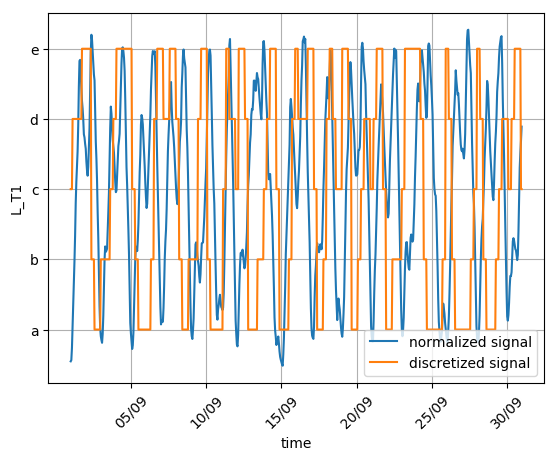
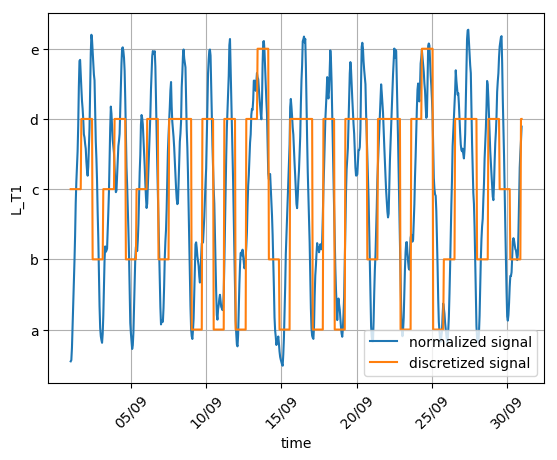
Discretization done!!!

Changed region(s): [[0.1221, 0.0913, 0.9461, 0.7304]]

diff --git a/anomaly_detection/discretization.py b/anomaly_detection/discretization.py
@@ -2,9 +2,7 @@ import pandas as pd
 import matplotlib.pyplot as plt
 import matplotlib.dates as mdates
 import numpy as np
-from saxpy.sax import sax_by_chunking
 from saxpy.znorm import znorm
-from math import ceil
 from nltk import ngrams
 from anomaly_detection import sax
 import warnings
@@ -51,13 +49,16 @@ def confusion_results(predicted, true):
     return TP, FP, TN, FN
 
 
-def uncompress_labels(compressed_data, n, w):
-    j = 0
-    step = ceil(n/w)
+def uncompress_labels(compressed_data, indices):
     uncompressed = []
     for i in range(len(compressed_data)):
-        uncompressed += [compressed_data[i]] * min(step, n - j)
-        j += step
+        if i < len(compressed_data)-1:
+            if indices[i][1] != indices[i+1][0]:
+                if compressed_data[i] > compressed_data[i+1]:
+                    indices[i + 1][0] += 1
+                else:
+                    indices[i][1] -= 1
+        uncompressed += [compressed_data[i]] * (indices[i][1]-indices[i][0])
     return uncompressed
 
 
@@ -66,15 +67,16 @@ def discretize_data(data, w, features, start_date, end_date, dataset, plotting):
     symbol_to_number = {'a': -1.5, 'b': -0.75, 'c': 0, 'd': 0.75, 'e': 1.5}
     number_to_symbol = {'0': 'a', '1': 'b', '2': 'c', '3': 'd', '4': 'e'}
     sax_seqs = {}
+    sax_indices = {}
     for feature in features:
         print('------------------------------------- Discretizing %s -------------------------------------' % feature)
         # sax_str = sax_by_chunking(np.array(data[feature]), w, alphabet)
-        sax_str, _ = sax.to_letter_rep(np.array(data[feature]), w, alphabet)
+        sax_str, real_indices = sax.to_letter_rep(np.array(data[feature]), w, alphabet)
         sax_seqs[feature] = sax_str
-
+        sax_indices[feature] = real_indices
         if plotting:
             normalized_signal = znorm(np.array(data[feature]))
-            discrete = uncompress_labels(sax_str, len(normalized_signal), w)
+            discrete = uncompress_labels(sax_str, real_indices)
             discrete = [symbol_to_number[number_to_symbol[d]] for d in discrete]
 
             fig = plt.figure()
@@ -91,7 +93,7 @@ def discretize_data(data, w, features, start_date, end_date, dataset, plotting):
             plt.grid()
             plt.legend(loc='lower right')
             plt.savefig('plots/sax/%s_discretization_%s.png' % (dataset, feature), bbox_inches='tight')
-    return sax_seqs
+    return sax_seqs, sax_indices
 
 
 def train_ngram(dsc_train, w):
@@ -126,14 +128,10 @@ def train_ngram(dsc_train, w):
     return states
 
 
-def test_ngram(dsc_test, w, threshold, threshold1, states, states1):
+def test_ngram(dsc_test, w, threshold, states, states1):
     test_grams = ngrams(dsc_test, w)
     prev = ""
     anomalies = []
-
-    stat_1 = 0
-    stat_2 = 0
-    stat_3 = 0
 
     try:
         while True:
@@ -148,13 +146,8 @@ def test_ngram(dsc_test, w, threshold, threshold1, states, states1):
             if prev == "":
                 anomalies += [0]
             elif key not in states.keys() and key not in states1.keys():
-                stat_1 += 1
-                anomalies += [1]
-            elif key in states.keys() and key in states1.keys() and abs(states1[key] - states[key]) > threshold1:
-                stat_3 += 1
                 anomalies += [1]
             elif key in states1.keys() and states1[key] < threshold:
-                stat_2 += 1
                 anomalies += [1]
             else:
                 anomalies += [0]
@@ -164,26 +157,42 @@ def test_ngram(dsc_test, w, threshold, threshold1, states, states1):
     except StopIteration:
         pass
 
-    print('not existing: ', stat_1)
-    print('low: ', stat_2)
-    print('big diff: ', stat_3)
-
-    return anomalies
+    return anomalies + [0]
 
 
 def plot_anomalies(true_anomalies, predicted_anomalies, sensor):
-    fig, ax = plt.subplots()
-    ax.fill_between(true_anomalies.index, true_anomalies, label='True', alpha=0.5)
-    ax.fill_between(true_anomalies.index, predicted_anomalies, label='Predicted', alpha=0.5)
-    ax.xaxis.set_major_locator(mdates.DayLocator([5, 10, 15, 20, 25, 30]))
-    ax.xaxis.set_major_formatter(mdates.DateFormatter('%d/%m'))
-    ax.set_ylabel('Attacks')
-    ax.grid()
-    plt.legend()
-    plt.title('Attacks for sensor {}'.format(sensor))
-    plt.xticks(rotation=45)
-    plt.xlabel("Date")
-    plt.savefig('plots/ngrams/attacks_%s.png' % sensor, bbox_inches='tight')
+    if sensor == 'considered':
+        final_predictions = np.array([0]*len(true_anomalies))
+        for pred in predicted_anomalies.values():
+            final_predictions = final_predictions | np.array(pred)
+        fig, ax = plt.subplots()
+        ax.fill_between(true_anomalies.index, true_anomalies, label='True', alpha=0.5)
+        ax.fill_between(true_anomalies.index, list(final_predictions), label='Predicted', alpha=0.5)
+        ax.xaxis.set_major_locator(mdates.DayLocator([5, 10, 15, 20, 25, 30]))
+        ax.xaxis.set_major_formatter(mdates.DateFormatter('%d/%m'))
+        ax.set_ylabel('Attacks')
+        ax.grid()
+        plt.legend()
+        plt.title('Attacks for {} sensors'.format(sensor))
+        plt.xticks(rotation=45)
+        plt.xlabel("Date")
+        plt.savefig('plots/ngrams/attacks_%s.png' % sensor, bbox_inches='tight')
+        TP, FP, TN, FN = confusion_results(final_predictions, list(true_anomalies))
+        print('------------------- Total Test results -------------------')
+        print('TP: %d, FP: %d, TN: %d, FN: %d' % (TP, FP, TN, FN))
+    else:
+        fig, ax = plt.subplots()
+        ax.fill_between(true_anomalies.index, true_anomalies, label='True', alpha=0.5)
+        ax.fill_between(true_anomalies.index, predicted_anomalies, label='Predicted', alpha=0.5)
+        ax.xaxis.set_major_locator(mdates.DayLocator([5, 10, 15, 20, 25, 30]))
+        ax.xaxis.set_major_formatter(mdates.DateFormatter('%d/%m'))
+        ax.set_ylabel('Attacks')
+        ax.grid()
+        plt.legend()
+        plt.title('Attacks for sensor {}'.format(sensor))
+        plt.xticks(rotation=45)
+        plt.xlabel("Date")
+        plt.savefig('plots/ngrams/attacks_%s.png' % sensor, bbox_inches='tight')
 
 
 if __name__ == '__main__':
@@ -201,12 +210,12 @@ if __name__ == '__main__':
 
     print('Discretizing the data with SAX...')
     # ['L_T1', 'L_T3', 'L_T4', 'L_T5', 'L_T6', 'L_T7', 'F_PU1', 'F_PU4', 'F_PU10', 'P_J14', 'P_J422']
-    dsc_sensors = discretize_data(train_df1, 2000, ['L_T7'], '2014-09-01', '2014-09-30', 'train1',
-                                  True)
-    dsc_sensors_tr2 = discretize_data(train_df2, 1000, ['L_T7'], '2016-07-04', '2016-07-30', 'train2',
-                                      False)
-    dsc_sensors_tst = discretize_data(test_df, 550, ['L_T7'], '2017-01-04', '2017-01-30', 'test',
-                                      False)
+    dsc_sensors, dsc_indices = discretize_data(train_df1, 500, ['L_T1', 'F_PU1', 'F_PU3', 'F_V2'
+        , 'P_J289', 'P_J14', 'P_J422'], '2014-09-01', '2014-09-30', 'train1', True)
+    dsc_sensors_tr2, dsc_indices_tr2 = discretize_data(train_df2, 250, ['L_T1', 'F_PU1', 'F_PU3', 'F_V2'
+        , 'P_J289', 'P_J14', 'P_J422'], '2016-07-04', '2016-07-30', 'train2', False)
+    dsc_sensors_tst, dsc_indices_tst = discretize_data(test_df, 125, ['L_T1', 'F_PU1', 'F_PU3', 'F_V2'
+        , 'P_J289', 'P_J14', 'P_J422'], '2017-01-04', '2017-01-30', 'test', False)
 
     print('N-gram calculation...')
     ngram_results = {}
@@ -214,11 +223,10 @@ if __name__ == '__main__':
         print('------------------------------------- Training on %s -------------------------------------' % sensor)
         states = train_ngram(dsc_sensors[sensor], 2)
         states_1 = train_ngram(dsc_sensors_tr2[sensor], 2)
-        threshold = 0.0015
-        threshold1 = 0.025
-        anomalies = test_ngram(dsc_sensors_tst[sensor], 2, threshold, threshold1, states, states_1)
-        ngram_results[sensor] = uncompress_labels(anomalies, len(true_anomalies), len(anomalies))
+        threshold = min(states.values())
+        anomalies = test_ngram(dsc_sensors_tst[sensor], 2, threshold, states, states_1)
+        ngram_results[sensor] = uncompress_labels(anomalies, dsc_indices_tst[sensor])
         TP, FP, TN, FN = confusion_results(ngram_results[sensor], list(true_anomalies))
-        print('------------------- Test results -------------------')
-        print('TP: %d, FP: %d, TN: %d, FN: %d' % (TP, FP, TN, FN))
-        plot_anomalies(true_anomalies, ngram_results[sensor], sensor)
+        # print('------------------- Test results -------------------')
+        # print('TP: %d, FP: %d, TN: %d, FN: %d' % (TP, FP, TN, FN))
+    plot_anomalies(true_anomalies, ngram_results, 'considered')

diff --git a/anomaly_detection/sax.py b/anomaly_detection/sax.py
@@ -53,7 +53,7 @@ def PAA(x, word_size):
     while chunk_start <= n - step:
         chunk = np.array(x[chunk_start:int(chunk_start + step)])
         approximated.append(np.mean(chunk))
-        indices.append((chunk_start, int(chunk_start + step)))
+        indices.append([chunk_start, int(chunk_start + step)])
         i += 1
         chunk_start = int(i * step_float)
     return np.array(approximated), indices
